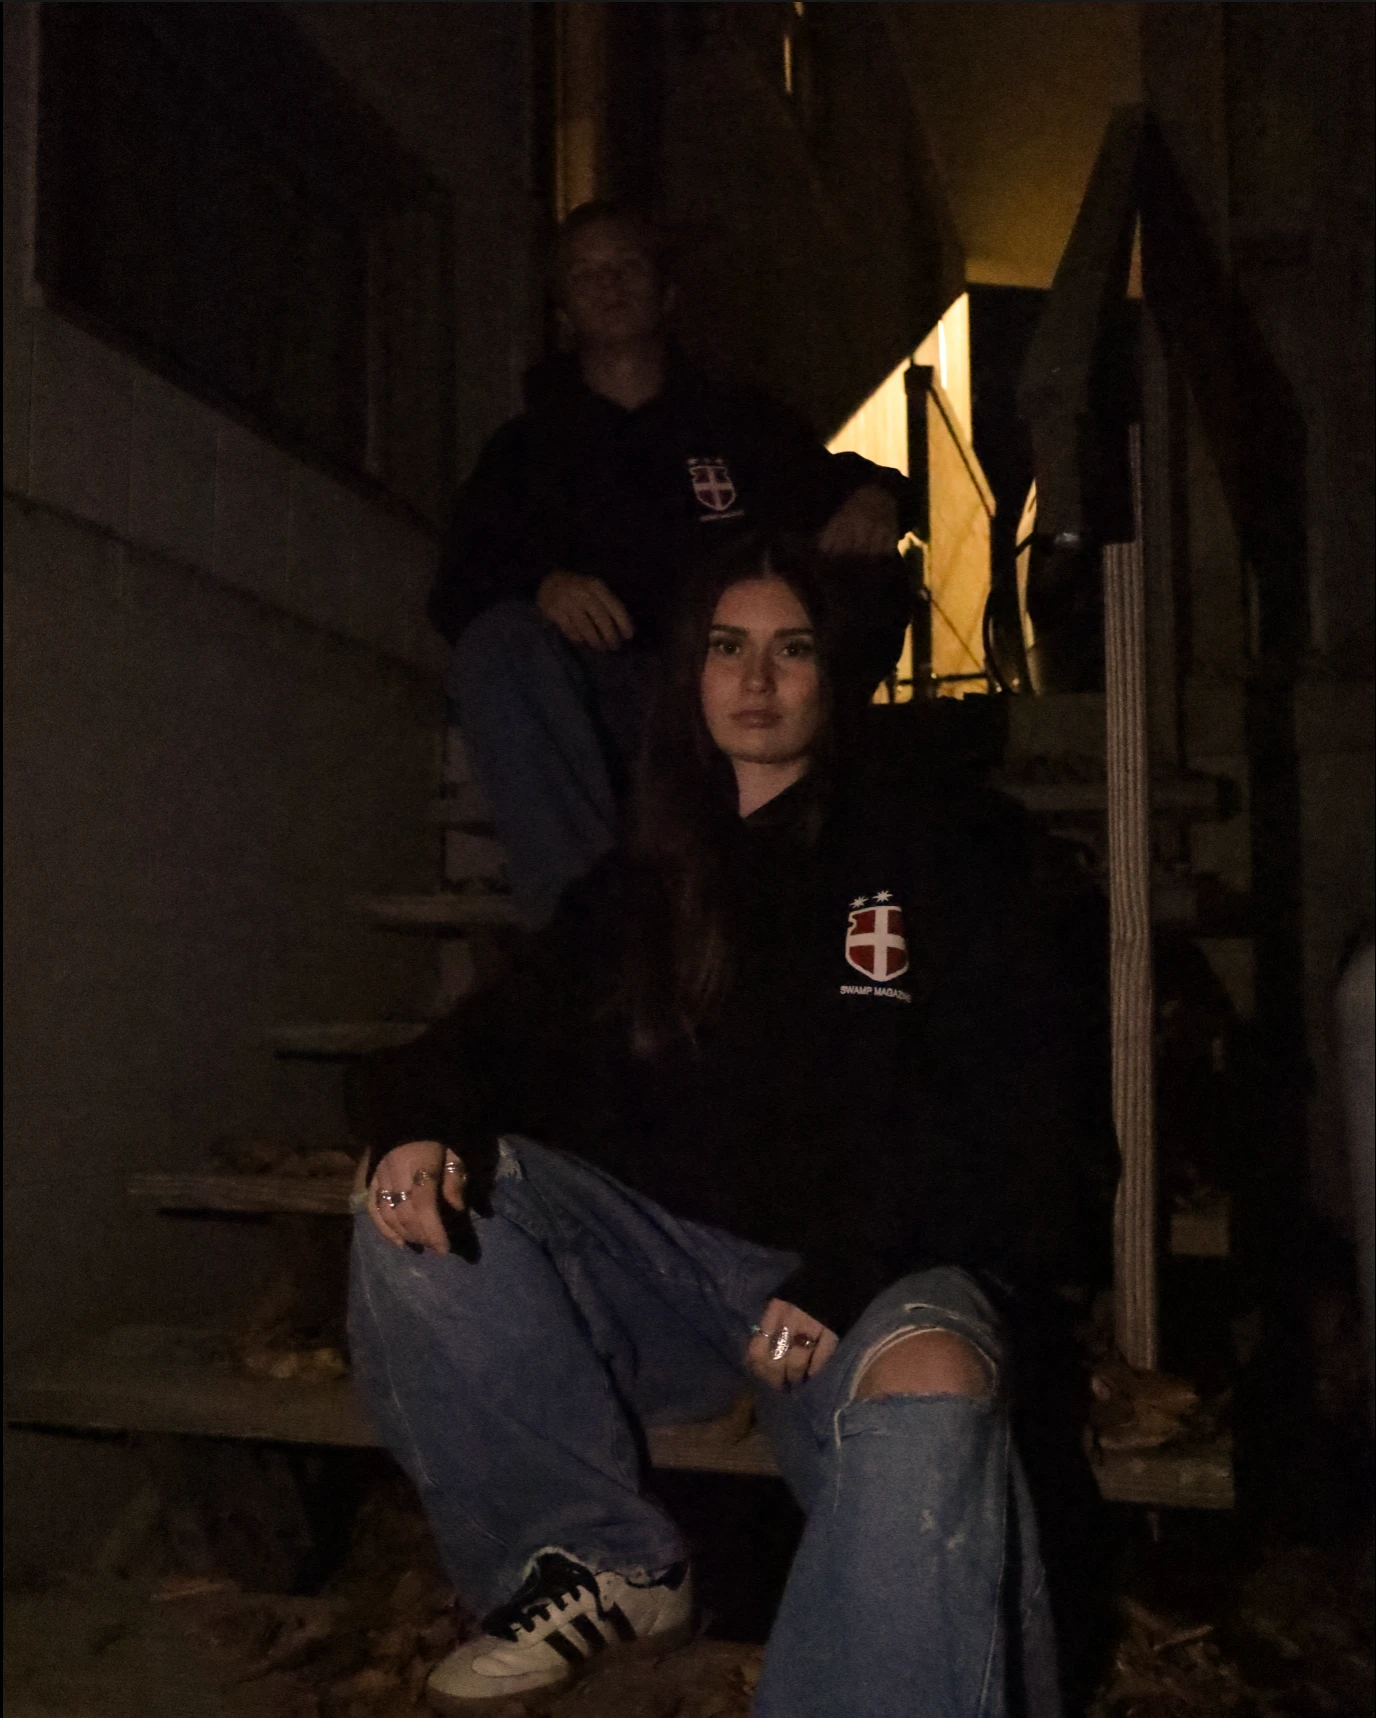
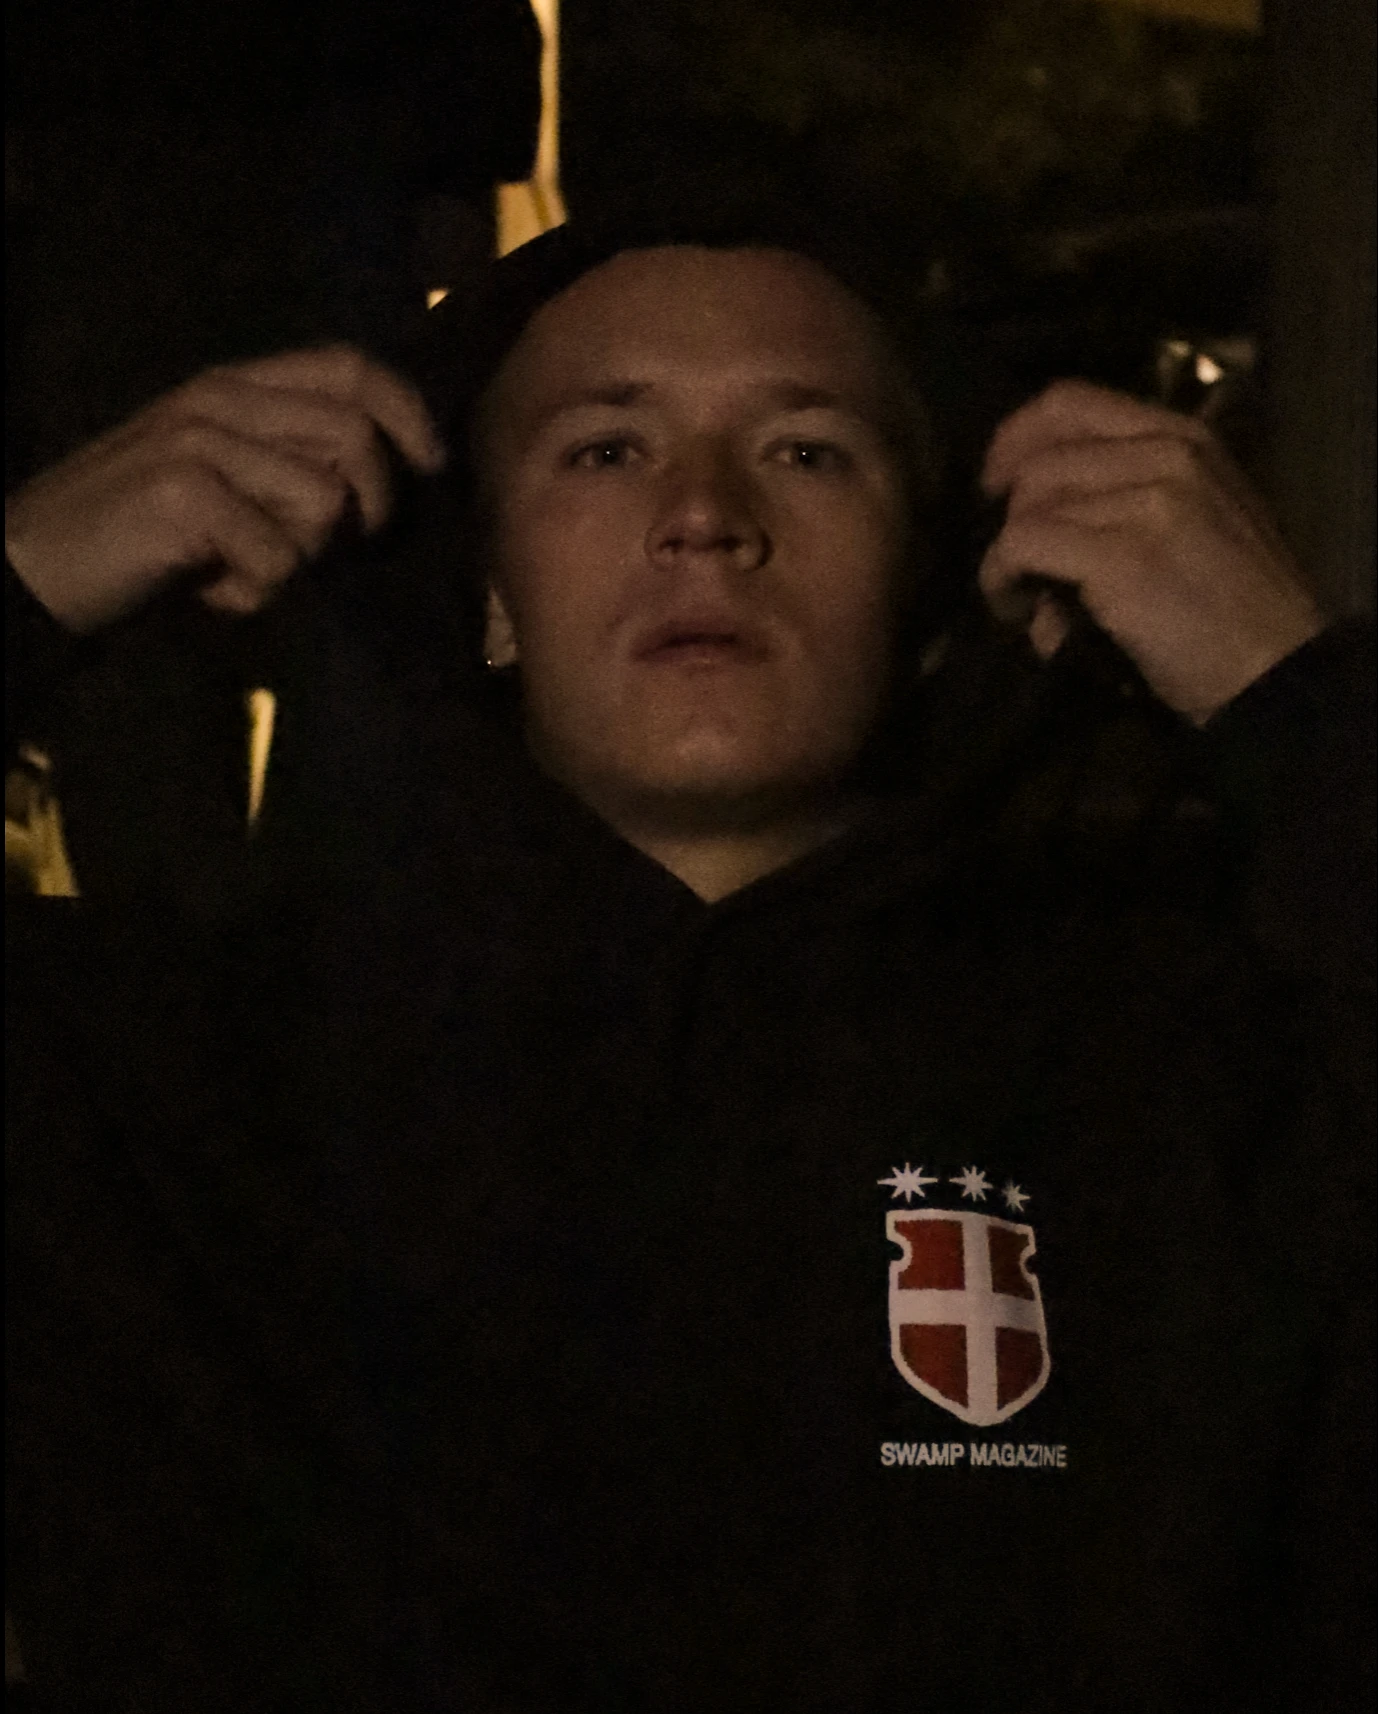
fc hoodie: two hood-up photos in the gallery

diff --git a/features/storefront/lib/product-gallery.ts b/features/storefront/lib/product-gallery.ts
@@ -44,7 +44,7 @@ function sleepShirtShots(): GalleryImage[] {
 
 const GALLERIES: Record<string, GalleryImage[]> = {
   "college-arch": shots("college-arch", 6, "College Arch lifestyle shot"),
-  "fc-hoodie": shots("fc-hoodie", 5, "FC Hoodie lifestyle shot"),
+  "fc-hoodie": shots("fc-hoodie", 7, "FC Hoodie lifestyle shot"),
   "lurker-tee": shots("lurker-tee", 4, "Lurker Tee lifestyle shot"),
   "lurker-longsleeve": shots(
     "lurker-longsleeve",
